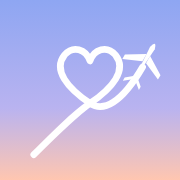
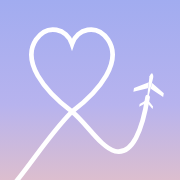
인트로 하트 꼬리·앱 아이콘 다듬기, 탑승권을 실제 항공편으로, 뒤로 두 번 눌러 종료
- 하트에서 나오는 선이 아래로 내려갔다 올라가도록 바꾸고 같은 모양으로 앱 아이콘 교체
- 인트로 탑승권: ICN → NRT, 날짜·시각·내 좌석 표시, 글자 넘침 수정
- 첫 장면 아랫줄은 여행 날짜로
- 뒤로 버튼: 열린 창 닫기 → 홈 → 한 번 더 누르면 종료 안내
- '새로 시작'은 항공편과 항공권을 남김

Claude-Session: https://claude.ai/code/session_01N3yozwcTCu1pnqp2ALH7G9

Changed region(s): [[0.0, 0.1389, 1.0, 1.0]]

diff --git a/app.js b/app.js
@@ -90,10 +90,10 @@ function slotStatus(){const tk=tickets();return ticketSlots().map(s=>({...s,t:tk
 
 /* import the Tokyo example as editable trip data */
 function wipeAll(){
-  if(!confirm('장소·일정·티켓·지출·일기·준비물·항공편을 모두 지울까요?\n둘 다의 화면에서 지워지고 되돌릴 수 없어요.'))return;
-  ['place','plan','ticket','exp','diary','prep','phrase','saved','checks','phrasehide'].forEach(k=>Sync.list(k).forEach(x=>x&&x.id&&Sync.remove(k,x.id)));
+  if(!confirm('장소·일정·지출·일기·준비물과 항공권이 아닌 티켓을 모두 지울까요?\n항공편과 항공권은 남겨요. 둘 다의 화면에서 지워지고 되돌릴 수 없어요.'))return;
+  ['place','plan','exp','diary','prep','phrase','saved','checks','phrasehide'].forEach(k=>Sync.list(k).forEach(x=>x&&x.id&&Sync.remove(k,x.id)));
+  Sync.list('ticket').forEach(t=>t.type!=='항공권'&&Sync.remove('ticket',t.id));
   ['saved','checks','phrasehide'].forEach(k=>Sync.get(k,'set')&&Sync.remove(k,'set'));
-  Sync.put('flights','trip',FLIGHT0);
   const T=trip();Sync.put('trip','info',{...T,hotelId:'',dayTitles:{}});
   closeSheet();state.day=1;state.edit=false;toast('모두 지웠어요. 이제 새로 채워 보세요.');render();
 }
@@ -448,21 +448,29 @@ const clearTimers=()=>{introTimers.forEach(clearTimeout);introTimers=[];};
 const at=(ms,fn)=>introTimers.push(setTimeout(fn,ms));
 const finaleSC=()=>`<div class="sc final"><svg class="art" viewBox="0 0 400 800" preserveAspectRatio="xMidYMid slice"><defs><linearGradient id="skyA" x1="0" y1="0" x2="0" y2="1"><stop offset="0" stop-color="#a9c8f6"/><stop offset=".6" stop-color="#cfe0fb"/><stop offset="1" stop-color="#f1e6f7"/></linearGradient></defs>
   <rect width="400" height="800" fill="url(#skyA)"/>${cloud(-40,120,1.6,.75)}${cloud(250,240,1.2,.6)}${cloud(-20,560,2,.85)}${cloud(230,640,2.4,.9)}${cloud(120,420,1,.5)}
-  <path id="hp" d="M-40 860 C 40 760, 120 620, 200 560 C 280 500, 340 420, 300 360 C 268 314, 214 330, 200 372 C 186 330, 132 314, 100 360 C 60 420, 120 500, 200 560 C 260 604, 330 520, 460 300" fill="none" stroke="#fff" stroke-width="5" stroke-linecap="round" style="stroke-dasharray:3000;stroke-dashoffset:3000"/>
+  <path id="hp" d="M-40 860 C 40 760, 120 620, 200 560 C 280 500, 340 420, 300 360 C 268 314, 214 330, 200 372 C 186 330, 132 314, 100 360 C 60 420, 120 500, 200 560 C 240 592, 280 660, 320 670 C 380 684, 420 560, 470 330" fill="none" stroke="#fff" stroke-width="5" stroke-linecap="round" style="stroke-dasharray:3000;stroke-dashoffset:3000"/>
   <g id="aplane" transform="translate(-60 900)"><g transform="scale(1.4)">${planeTop('#ffffff','#b9c3ea')}</g></g></svg>
   <div class="txt"><h2 class="rise">${esc(trip().title)}</h2><div class="en rise d1">${esc(rangeText())}</div></div>
   <button class="cta go-a rise d3" data-enter>여행 시작하기 ${svg('chev')}</button></div>`;
+// the intro's boarding pass shows the real way-out flight: codes big, cities small, then date, time and my seat
+const apCode=x=>((x||'').match(/\b[A-Z]{3}\b/)||[''])[0];
+const apName=x=>(x||'').replace(/\b[A-Z]{3}\b/,'').trim();
+function passHTML(){const f=flights().out,a=DAYS[0],mine=tickets().find(t=>t.dir==='out'&&t.seat&&(!t.pax||t.pax===myPax()));
+  const from=apCode(f.fromCity)||apName(f.fromCity)||'서울',to=apCode(f.toCity)||apName(f.toCity)||trip().city||'여행지';
+  const names=apCode(f.fromCity)||apCode(f.toCity)?`${apName(f.fromCity)||f.fromCity} → ${apName(f.toCity)||f.toCity}`:'';
+  const cell=(k,v)=>v?`<div><div class="k">${k}</div><div class="v">${esc(v)}</div></div>`:'';
+  return `<div class="k">BOARDING PASS${f.no?' · '+esc(f.no):''}</div><div class="v route">${esc(from)}<span class="ar">${svg('plane')}</span>${esc(to)}</div>${names?`<div class="nm">${esc(names)}</div>`:''}
+    <div class="row">${cell('DATE',a&&a.date?fmtMD(a.date):'')}${cell('TIME',f.dep)}${cell('SEAT',mine&&mine.seat)}${!f.dep&&!(mine&&mine.seat)?cell('DAYS',DAYS.length+'일'):''}</div>`;}
 function introHTML(){
   return `<div class="intro introD" data-intro role="dialog" aria-label="여행 인트로">
     ${introTools('건너뛰기')}
     <div class="sc"><div class="porthole"><svg viewBox="0 0 210 300" preserveAspectRatio="xMidYMid slice"><defs><linearGradient id="pw" x1="0" y1="0" x2="0" y2="1"><stop offset="0" stop-color="#b9cff8"/><stop offset=".55" stop-color="#e3dcf7"/><stop offset=".75" stop-color="#ffd9c6"/><stop offset="1" stop-color="#fff1e6"/></linearGradient></defs>
         <rect width="210" height="300" fill="url(#pw)"/><circle cx="140" cy="205" r="34" fill="#fff6e6" opacity=".9"/>
         <g class="drift">${cloud(-10,200,1.1,1)}${cloud(110,230,1.4,1)}${cloud(200,200,1.1,1)}${cloud(320,230,1.4,1)}${cloud(40,90,.6,.7)}${cloud(250,90,.6,.7)}</g></svg><div class="shade"></div></div>
-      <div class="txt" style="top:calc(470px + env(safe-area-inset-top,0px));text-align:center"><h2 class="rise">${esc(whenPhrase())},<br>${esc(trip().city||'여행')}에 가요</h2><div class="en rise d1">${esc(flights().out.fromCity||'')} → ${esc(trip().city||'')}</div></div></div>
+      <div class="txt" style="top:calc(470px + env(safe-area-inset-top,0px));text-align:center"><h2 class="rise">${esc(whenPhrase())},<br>${esc(trip().city||'여행')}에 가요</h2><div class="en rise d1">${esc(rangeText())}</div></div></div>
     <div class="sc"><svg class="art" viewBox="0 0 400 800" preserveAspectRatio="xMidYMid slice"><rect width="400" height="800" fill="#e8ecfb"/>${cloud(-30,90,1.3,.9)}${cloud(240,170,1,.8)}${cloud(-50,620,2.4,1)}${cloud(200,680,2.6,1)}</svg>
       <div class="txt" style="top:calc(120px + env(safe-area-inset-top,0px))"><h2 class="rise">탑승권이<br>도착했어요</h2><p class="rise d1">표를 끊으면 바로 출발해요</p></div>
-      <button class="ticket" data-tear aria-label="표를 끊고 출발하기" style="--stub:#5a6fe3;--tk:#7c83ad;--tv:#232849;bottom:calc(36% + env(safe-area-inset-bottom,0px))"><div class="main"><div class="k">${esc(admitText())}</div><div class="v">${esc(flights().out.fromCity||'서울')} → ${esc(trip().city||flights().out.toCity||'여행지')}</div>
-        <div class="row"><div><div class="k">DATE</div><div class="v">${esc(shortRange())}</div></div><div><div class="k">FLIGHT</div><div class="v">${esc(flights().out.no||'—')}</div></div><div><div class="k">DAYS</div><div class="v">${DAYS.length}일</div></div></div></div>
+      <button class="ticket" data-tear aria-label="표를 끊고 출발하기" style="--stub:#5a6fe3;--tk:#7c83ad;--tv:#232849;bottom:calc(36% + env(safe-area-inset-bottom,0px))"><div class="main">${passHTML()}</div>
         <div class="stub"><span class="pulse">탭해서<br>표 끊기</span></div></button></div>
     ${finaleSC()}
   </div>`;
@@ -484,7 +492,7 @@ function showIntro(){
   const toTicket=()=>{clearTimers();stage=1;show(1);};
   const tear=()=>{if(stage===2)return;stage=2;el.querySelector('[data-tear]').classList.add('torn');const c=audio(true);sfxTear(c);if(!reduced())sfxFly(c,0.8);
     at(reduced()?0:750,()=>{show(2);el._done=true;if(reduced())el._final();else flyHeart(el);});};
-  el._final=()=>{clearTimers();stage=2;show(2);el._done=true;const hp=el.querySelector('#hp');if(hp){hp.style.transition='none';hp.style.strokeDashoffset='0';}const ap=el.querySelector('#aplane');if(ap)ap.setAttribute('transform','translate(460 300) rotate(-50)');};
+  el._final=()=>{clearTimers();stage=2;show(2);el._done=true;const hp=el.querySelector('#hp');if(hp){hp.style.transition='none';hp.style.strokeDashoffset='0';}const ap=el.querySelector('#aplane');if(ap)ap.setAttribute('transform','translate(470 330) rotate(-78)');};
   el._tap=()=>{if(el._done){finishIntro();return;}if(stage===0)toTicket();else tear();};
   show(0);at(reduced()?1200:3600,toTicket);
 }
@@ -749,7 +757,7 @@ function settingsSheet(){
     <div class="grp">동기화</div><div class="sync-row"><span>${syncText()}</span><button class="btn sm" data-syncnow>${svg('sync')}지금 동기화</button></div>
     <div class="sh-acts"><button class="btn" data-sound aria-pressed="${state.sound}">${state.sound?'효과음 끄기':'효과음 켜기'}</button><button class="btn" data-replay>인트로 다시 보기</button></div>
     ${!Object.keys(PL).length?'<button class="btn ghost" data-importtpl>도쿄 예시 불러오기</button>':''}
-    ${Object.keys(PL).length||Sync.list('ticket').length?'<button class="btn ghost danger" data-wipeall>예시·기존 내용 모두 지우고 새로 시작</button>':''}
+    ${Object.keys(PL).length||Sync.list('ticket').length?'<button class="btn ghost danger" data-wipeall>예시·기존 내용 지우고 새로 시작 (항공권은 남겨요)</button>':''}
     <button class="btn ghost" data-signout>로그아웃</button>
     <p class="fine">로그아웃하면 이 휴대폰에 저장된 여행 데이터도 지워져요. 서버에 올라간 내용은 그대로 남아요.</p>`);
 }
@@ -1081,7 +1089,7 @@ function render(){
   document.querySelectorAll('.tab').forEach(b=>b.setAttribute('aria-selected',b.dataset.tab===state.tab||(state.tab==='places'&&b.dataset.tab==='home')||(state.tab==='prep'&&b.dataset.tab==='home')));
   ['home','plan','places'].forEach(mountMap);hydrateFiles($('#main'));
 }
-function go(tab,scroll=true){if(!VIEWS[tab])tab='home';if(!Sync.meta.tripId&&!GATED.has(tab))tab='auth';closeSheet();state.tab=tab;state.edit=false;if(!GATED.has(tab)&&location.hash.slice(1)!==tab)history.replaceState(null,'','#'+tab);render();if(scroll)window.scrollTo(0,0);}
+function go(tab,scroll=true){if(!VIEWS[tab])tab='home';if(!Sync.meta.tripId&&!GATED.has(tab))tab='auth';closeSheet();state.tab=tab;state.edit=false;if(!GATED.has(tab)&&location.hash.slice(1)!==tab)history.replaceState(history.state,'','#'+tab);render();if(scroll)window.scrollTo(0,0);}
 async function enter(){
   if(Sync.meta.tripId){go(VIEWS[location.hash.slice(1)]&&!GATED.has(location.hash.slice(1))?location.hash.slice(1):'home',false);Sync.syncNow();return;}
   const s=await Sync.session();
@@ -1247,6 +1255,17 @@ document.addEventListener('keydown',e=>{
   if(e.key==='Escape'){if(!$('#overlay').hidden)closeOverlay();else closeSheet();}
   if((e.key==='Enter'||e.key===' ')&&!$('#intro').hidden&&!e.target.closest('button')){e.preventDefault();$('#intro')._tap();}
 });
+/* Android back button: close what is open, then go home, then exit only on a second press */
+let backAt=0;
+const pushGuard=()=>history.pushState({guard:1},'','#'+(GATED.has(state.tab)?'':state.tab));
+window.addEventListener('popstate',()=>{
+  if(!$('#overlay').hidden){closeOverlay();pushGuard();return;}
+  if($('#sheetRoot').innerHTML){closeSheet();pushGuard();return;}
+  if($('#intro').hidden&&state.tab!=='home'&&!GATED.has(state.tab)){go('home');pushGuard();return;}
+  if(Date.now()-backAt<2200){history.back();return;}
+  backAt=Date.now();toast('뒤로 버튼을 한 번 더 누르면 앱이 꺼져요');pushGuard();
+});
+pushGuard();
 window.addEventListener('hashchange',()=>{const h=location.hash.slice(1);if(VIEWS[h]&&h!==state.tab&&!GATED.has(h))go(h);});
 let rz;window.addEventListener('resize',()=>{clearTimeout(rz);rz=setTimeout(()=>Object.values(maps).forEach(m=>{try{m.invalidateSize({animate:false});}catch(e){}}),150);});
 // re-render when the other person's changes arrive, unless someone is typing

diff --git a/data.js b/data.js
@@ -34,7 +34,7 @@ const TPL_PLAN={
 // flights are entered in the app (trip settings); these are only the defaults shown before that
 const FLIGHT0={out:{fromCity:'인천',toCity:'',no:'',dep:'',arr:'',term:''},in:{fromCity:'',toCity:'인천',no:'',dep:'',arr:'',term:''}};
 const TPL_FLIGHTS={out:{fromCity:'인천',toCity:'나리타'},in:{fromCity:'나리타',toCity:'인천'}};
-const TPL_TRIP={title:'도쿄 태교여행',city:'도쿄',start:'2026-11-24',nights:2,hotelId:'hotel',dayTitles:{1:'아사쿠사 · 스카이트리',2:'메이지 신궁 · 시부야',3:'스이텐구 · 긴자'}};
+const TPL_TRIP={title:'도쿄로 떠나는 태교여행',city:'도쿄',start:'2026-11-24',nights:2,hotelId:'hotel',dayTitles:{1:'아사쿠사 · 스카이트리',2:'메이지 신궁 · 시부야',3:'스이텐구 · 긴자'}};
 const ZST={oshiage:[35.7103,139.8133],kinshicho:[35.6966,139.8150],sumiyoshi:[35.6890,139.8160],kiyosumi:[35.6818,139.7993],suitengumae:[35.6827,139.7856],mitsukoshimae:[35.6862,139.7737],otemachi:[35.6860,139.7640],jimbocho:[35.6958,139.7577],kudanshita:[35.6956,139.7514],hanzomon:[35.6833,139.7417],nagatacho:[35.6786,139.7400],aoyama1:[35.6727,139.7240],omotesando:[35.6654,139.7121],shibuya:[35.6580,139.7016]};
 const ZORDER=Object.keys(ZST);
 const ZNEAR={skytree:'oshiage',solamachi:'oshiage',hotel:'suitengumae',suitengu:'suitengumae',ningyoyaki:'suitengumae',omote:'omotesando',shibuya:'shibuya',ichiran:'shibuya',motomura:'shibuya'};

diff --git a/styles.css b/styles.css
@@ -572,3 +572,10 @@ html{--d4:#e0679a;--d5:#3a9bd8;--d6:#b28a2e;--d7:#6b8f3a}
 .tpax{display:inline-block;align-self:flex-start;font-size:12px;font-weight:700;color:var(--accent);background:var(--accent-soft);border-radius:999px;padding:1px 8px;margin-bottom:2px}
 .ts-pax{display:inline-block;font-size:13px;font-weight:700;color:#4a57c9;background:#e7eafc;border-radius:999px;padding:2px 10px;margin-bottom:4px}
 .paxpick{margin:0}
+.ticket .main{min-width:0}
+.ticket .v.route{display:flex;align-items:center;gap:8px;font-size:30px;line-height:1.15;white-space:nowrap}
+.ticket .v.route .ar{display:inline-flex;color:var(--tk,#a08aa8)}
+.ticket .v.route .ar svg{width:20px;height:20px}
+.ticket .nm{font-size:13px;color:var(--tk,#a08aa8);margin-top:2px;white-space:nowrap;overflow:hidden;text-overflow:ellipsis}
+.ticket .row{gap:16px;margin-top:10px}
+.ticket .row .v{white-space:nowrap}

diff --git a/sw.js b/sw.js
@@ -1,6 +1,6 @@
 /* Offline support: the app shell is cached on install, fonts and the Supabase library are cached on first use.
    Supabase API and storage calls always go to the network; the app keeps its own copy of data and files. */
-const VERSION='taebo-travel-v20';
+const VERSION='taebo-travel-v21';
 const SHELL=['./','index.html','styles.css','data.js','sync.js','app.js','manifest.webmanifest','icons/icon-192.png','icons/icon-512.png','icons/apple-touch-icon.png',
   'vendor/supabase-2.45.4.js','vendor/591.supabase.js','vendor/leaflet-1.9.4/leaflet.js','vendor/leaflet-1.9.4/leaflet.css','vendor/maplibre-gl-4.7.1/maplibre-gl.js','vendor/maplibre-gl-4.7.1/maplibre-gl.css','vendor/maplibre-gl-4.7.1/leaflet-maplibre-gl.js'];
 const TILES='taebo-tiles-v3';
